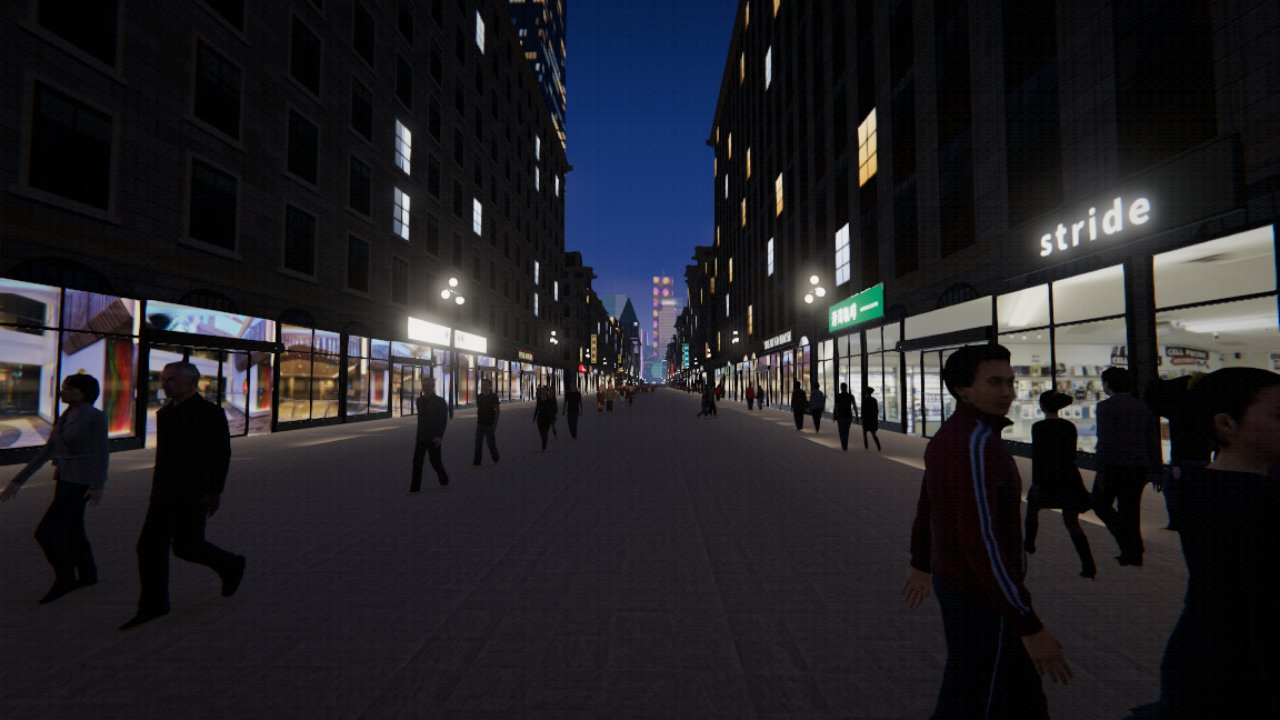
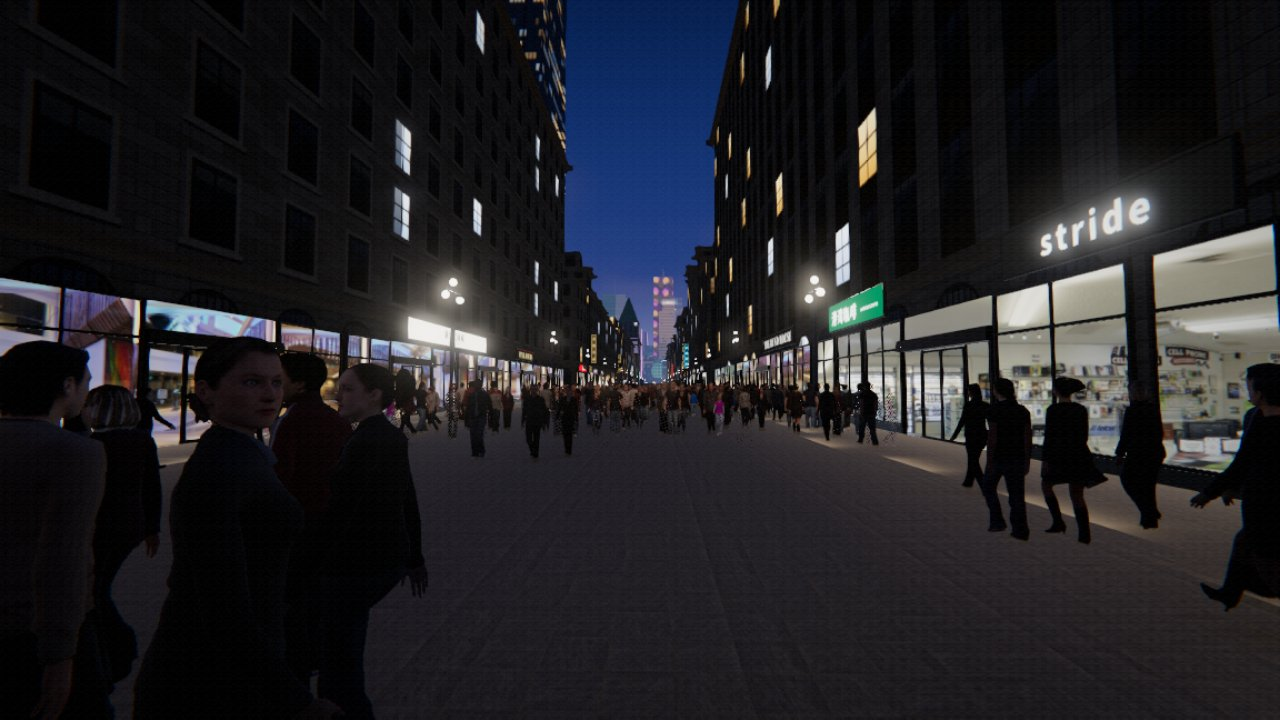
Nanjing Road's throng: thousands more people on the pedestrian street, one draw call
The simulated crowd gave Nanjing Road a couple of hundred people in view at six in the evening. A
throng of impostor cards now fills the street beyond about 15 m of the camera (engine/throng.js,
world/throngView.js), moved entirely in the vertex shader: one draw call, no per-frame CPU.

- Straight tracks east and west at a strolling pace with a weave; couples and threes; window-shoppers
  and photographers. Two stretches cut at Henan Road; out of the trams' lanes, the metro wells and the
  buildings; fade at the ends of a stretch, near the camera (the simulated crowd there) and far off.
- Count by preset (engine/gfx.js throng: 4,000 / 12,000 / 15,000 / 20,000 at the busiest), scaled by
  the evening's share like the simulated crowd, halved in rain; ?throng=<n> / ?throng=0.
- Counted in the liveliness numbers. Hero view at 18:00: 1,857 people (was 206).
- tests/throng.test.mjs; docs/living-city.md.

Claude-Session: https://claude.ai/code/session_018TEJd55UN3ZjrcLPdv4VPK

Changed region(s): [[0.0, 0.4583, 1.0, 1.0]]

diff --git a/src/engine/throng.js b/src/engine/throng.js
@@ -1,0 +1,131 @@
+// Nanjing Road's throng: the thousands on the pedestrian street beyond the simulated crowd. Pure (no
+// three.js); world/throngView.js draws them as the far crowd's impostor cards, moved entirely on the GPU
+// from a few numbers each, so they cost one draw call and no per-frame work on the main thread.
+//
+// Why: the simulated crowd (engine/crowd.js) is a few thousand people for the whole map, so the 1.5 km of
+// Nanjing Road East shows a couple of hundred at six in the evening. An ordinary evening there is about
+// 0.15-0.3 people per m² (docs/living-city.md: holiday peaks near 1 per m², 32,000-65,000 on the street
+// at once), so the hero view along the street should hold well over a thousand.
+//
+// How: each person walks a straight track along the street, east or west, at their own pace and their own
+// distance from the shop fronts, with a slight weave; when they reach the end of their stretch they fade
+// out and come back in at the other end. The street is cut into stretches at Henan Road (cars cross there),
+// so nobody walks through the traffic. Some stand at the shop windows or stop to photograph the neon.
+// Couples and friends walk side by side. Within about 15 m of the camera the throng fades out: there the
+// simulated crowd, which steers, talks and goes into shops, is what you see.
+//
+// The same arithmetic runs here (for the liveliness numbers and the tests) and in the vertex shader; keep
+// them in step (world/throngView.js THRONG_GLSL).
+import { NJ, METRO } from '../world/layout.js';
+
+const Z_N = NJ.z0 + 4.6, Z_S = NJ.z1 - 1.6;   // the walking strip (north edge clear of the metro wells and lamp row)
+
+export const THRONG = {
+  near: [14, 19],          // the throng fades in between these distances from the camera (nearer, the simulated crowd's full people)
+  far: [420, 470],         // and out again here (fog has taken most of it by then)
+  endFade: 6,              // metres of fade at each end of a stretch
+  wrap: 10000,             // the clock wraps every this many seconds (float precision on the GPU)
+  stride: 1.35,            // metres per walk cycle (as engine/crowd.js)
+};
+
+// the stretches of the street people walk: [xEast, xWest] (x falls going west), and the strip across it
+// they keep to (clear of the shop steps and the metro wells by the north kerb)
+export function throngStretches() {
+  const h = NJ.henan;
+  // west of Henan Road the sightseeing trams run both ways down the street (world/tram.js TRAM_ROUTE: lanes
+  // at zc +- half, cars about 1.8 m wide): nobody walks in a tram's lane, they walk between and beside them
+  const tz = NJ.zc + 4.3, th = 2.4, clear = 1.5;
+  return [
+    { x0: -40, x1: h.x1 + 1.5, bands: [[Z_N, Z_S]] },                 // the Bund end to Henan Road
+    { x0: h.x0 - 1.5, x1: NJ.xWest + 3,                                // Henan Road to Xizang Road
+      bands: [[Z_N, tz - th - clear], [tz - th + clear, tz + th - clear], [tz + th + clear, Z_S]] },
+  ];
+}
+
+// a seeded random sequence (so the street is the same each load and in the tests)
+function rng(seed) { let s = seed >>> 0; return () => { s = (s + 0x6d2b79f5) >>> 0; let t = s; t = Math.imul(t ^ (t >>> 15), t | 1); t ^= t + Math.imul(t ^ (t >>> 7), t | 61); return ((t ^ (t >>> 14)) >>> 0) / 4294967296; }; }
+
+// count: how many people when the street is at its busiest. roles: how many avatars the atlas has.
+// Returns per person (Float32Arrays, `n` long, the layouts world/throngView.js uploads):
+//   track [xEast, xWest, z, speed]    speed in m/s, signed: < 0 walks west, > 0 east, 0 stands
+//   phase [start (m along), weave phase, stride phase, hash]   hash: when in the evening they're out (0..1)
+//   look  [role, scale, pose, heading]   pose: -1 walking, -2 walking together, 8 standing, 9 photographing
+export function buildThrong({ count = 4000, roles = 16, seed = 2026 } = {}) {
+  const rnd = rng(seed), st = throngStretches();
+  const len = st.map((s) => s.x0 - s.x1), total = len.reduce((a, b) => a + b, 0);
+  const n = Math.max(0, Math.round(count));
+  const track = new Float32Array(n * 4), phase = new Float32Array(n * 4), look = new Float32Array(n * 4);
+  const inMetro = (x) => METRO.some((m) => x > m.x0 - 1.5 && x < m.x1 + 1.5);
+  const inCross = (x) => NJ.cross.some((c) => x > c.x0 - 1.5 && x < c.x1 + 1.5) || (x > NJ.henan.x0 - 4 && x < NJ.henan.x1 + 4);
+  for (let i = 0; i < n;) {
+    // which stretch: by its length (the street is as busy all along)
+    let r = rnd() * total, k = 0; while (k < st.length - 1 && r > len[k]) { r -= len[k]; k++; }
+    const S = st[k], hash = rnd(), role = Math.floor(rnd() * roles), scale = 0.93 + rnd() * 0.12;
+    const kind = rnd();
+    if (kind < 0.07) {
+      // at a shop window, or photographing the street's neon from the edge of it
+      const x = S.x0 - 3 - rnd() * (len[k] - 6);
+      if (inMetro(x) || inCross(x)) continue;
+      const north = rnd() < 0.5, photo = rnd() < 0.3;
+      const z = photo ? (north ? Z_N : Z_S) : north ? NJ.z0 + 1.3 : NJ.z1 - 1.3;
+      const heading = photo ? (rnd() < 0.5 ? Math.PI / 2 : -Math.PI / 2) : north ? Math.PI : 0;   // facing the window (north: -z), or along the street
+      set(i, S, z, 0, x, hash, role, scale, photo ? 9 : 8, heading); i++;
+      continue;
+    }
+    // walking: west on the north half more often, east on the south (keeping right, loosely)
+    const bw = S.bands.map(([a, b]) => b - a), bt = bw.reduce((a, b) => a + b, 0);
+    let zr = rnd() * bt, bi = 0; while (bi < bw.length - 1 && zr > bw[bi]) { zr -= bw[bi]; bi++; }
+    const band = S.bands[bi], z = band[0] + zr;
+    const south = (z - Z_N) / (Z_S - Z_N);
+    const west = rnd() < 0.65 - 0.3 * south;
+    const v = (0.85 + rnd() * 0.5) * (west ? -1 : 1);
+    const at = rnd() * len[k];
+    // with a companion beside them, at their pace (a couple, two friends; now and then three)
+    const more = rnd() < 0.38 ? (rnd() < 0.2 ? 2 : 1) : 0, tag = more ? -2 : -1;
+    set(i, S, z, v, at, hash, role, scale, tag, 0); i++;
+    for (let c = 0; c < more && i < n; c++) {
+      const side = z + 0.62 < band[1] - 0.25 ? 1 : -1, zc = Math.min(band[1] - 0.25, Math.max(band[0] + 0.25, z + (c + 1) * 0.62 * side));   // (beside them, inside their band)
+      set(i, S, zc, v, at + (rnd() - 0.5) * 0.4, hash, Math.floor(rnd() * roles), 0.93 + rnd() * 0.12, tag, 0); i++;
+    }
+  }
+  function set(i, S, z, v, at, hash, role, scale, pose, heading) {
+    track.set([S.x0, S.x1, z, v], i * 4);
+    phase.set([at, rnd() * Math.PI * 2, rnd(), hash], i * 4);
+    look.set([role, scale, pose, heading], i * 4);
+  }
+  return { n, track, phase, look };
+}
+
+const smooth = (a, b, x) => { const t = Math.min(1, Math.max(0, (x - a) / (b - a))); return t * t * (3 - 2 * t); };
+
+// person i at time t (s): { x, z, heading, pose (0-9), fade (0..1, before the camera's distance), moving }
+// active: the share of the evening throng that's out (engine/timeOfDay.js crowd, as the simulated crowd)
+export function throngAt(T, i, t, active = 1) {
+  const o = i * 4, [x0, x1, z0, v] = T.track.subarray(o, o + 4), [s0, wv, sp, hash] = T.phase.subarray(o, o + 4), pose0 = T.look[o + 2];
+  const len = x0 - x1, tt = t % THRONG.wrap;
+  let out = Math.min(1, Math.max(0, (active - hash) * 25));          // (out or not by the hour, eased over a few % of the crowd)
+  if (v === 0) return { x: s0, z: z0, heading: T.look[o + 3], pose: pose0, fade: out, moving: false };
+  const s = (((s0 + Math.abs(v) * tt) % len) + len) % len;
+  const x = v < 0 ? x0 - s : x1 + s;
+  const z = z0 + 0.22 * Math.sin(0.35 * tt + wv);
+  out *= smooth(0, THRONG.endFade, s) * smooth(0, THRONG.endFade, len - s);
+  const step = Math.floor((((sp + Math.abs(v) * tt / THRONG.stride) % 1) + 1) % 1 * 8) % 8;
+  return { x, z, heading: v < 0 ? -Math.PI / 2 : Math.PI / 2, pose: step, fade: out, moving: true, together: pose0 === -2 };
+}
+
+// how much of person p the camera at (ex, ez) sees for distance alone (the near and far fades)
+export function throngDistanceFade(p, ex, ez) {
+  const d = Math.hypot(p.x - ex, p.z - ez);
+  return smooth(THRONG.near[0], THRONG.near[1], d) * (1 - smooth(THRONG.far[0], THRONG.far[1], d));
+}
+
+// everyone drawn at all from (ex, ez) at time t, for the liveliness numbers: [{ x, z, activity }]
+export function throngPeople(T, t, active, ex, ez) {
+  const out = [];
+  for (let i = 0; i < T.n; i++) {
+    const p = throngAt(T, i, t, active);
+    if (p.fade * throngDistanceFade(p, ex, ez) < 0.5) continue;
+    out.push({ x: p.x, z: p.z, activity: !p.moving ? (p.pose === 9 ? 'photographing' : 'window-shopping') : p.together ? 'walking together' : 'walking' });
+  }
+  return out;
+}

diff --git a/src/world/throngView.js b/src/world/throngView.js
@@ -1,0 +1,119 @@
+// Nanjing Road's throng, drawn (engine/throng.js decides who walks where): every person a camera-facing
+// card from the far crowd's impostor atlas (world/crowdView.js bakeImpostors), the right side of them and
+// the right step of their walk. Where they are is worked out in the vertex shader from the time and a few
+// numbers each, so the whole throng is one draw call and nothing per person on the main thread.
+// Faded in and out with a screen-door dither (no blending, no sorting): near the camera, where the
+// simulated crowd takes over, and at the ends of each stretch of street.
+import * as THREE from 'three';
+import { THRONG, buildThrong } from '../engine/throng.js';
+import { COLS, ROWS, CW, CH, FRAME_W, FRAME_H, coatOf, lightAt, crowdDaylight } from './crowdView.js';
+
+const Y = 0.15;   // the pedestrian street's paving (world/layout.js groundHeight)
+
+// keep in step with engine/throng.js throngAt and throngDistanceFade
+const VERT = /* glsl */ `
+  attribute vec4 iTrack;      // xEast, xWest, z, speed (signed; 0 stands)
+  attribute vec4 iPhase;      // start, weave phase, stride phase, hash
+  attribute vec4 iLook;       // atlas block x, block y, pose (-1/-2 walking, 8 standing, 9 photographing), heading
+  attribute vec4 iCoat;       // coat tint rgb, scale
+  uniform float uTime, uActive;
+  uniform vec3 uLight;
+  uniform vec2 atlasSize;
+  uniform vec4 uFade;         // near in, near full, far start, far gone
+  varying vec2 vUv; varying vec3 vTint; varying float vFade;
+  #include <common>
+  #include <fog_pars_vertex>
+  float sm(float a, float b, float x) { float t = clamp((x - a) / (b - a), 0.0, 1.0); return t * t * (3.0 - 2.0 * t); }
+  void main() {
+    float len = iTrack.x - iTrack.y, v = iTrack.w, fade = clamp((uActive - iPhase.w) * 25.0, 0.0, 1.0);
+    vec3 wp; float heading = iLook.w, pose = iLook.z;
+    if (v == 0.0) { wp = vec3(iPhase.x, ${Y.toFixed(2)}, iTrack.z); }
+    else {
+      float av = abs(v), s = mod(iPhase.x + av * uTime, len);
+      wp = vec3(v < 0.0 ? iTrack.x - s : iTrack.y + s, ${Y.toFixed(2)}, iTrack.z + 0.22 * sin(0.35 * uTime + iPhase.y));
+      fade *= sm(0.0, ${THRONG.endFade.toFixed(1)}, s) * sm(0.0, ${THRONG.endFade.toFixed(1)}, len - s);
+      heading = v < 0.0 ? -PI / 2.0 : PI / 2.0;
+      pose = mod(floor(fract(iPhase.z + av * uTime / ${THRONG.stride.toFixed(2)}) * 8.0), 8.0);
+    }
+    float d = distance(cameraPosition.xz, wp.xz);
+    fade *= sm(uFade.x, uFade.y, d) * (1.0 - sm(uFade.z, uFade.w, d));
+    vFade = fade;
+    if (fade < 0.01) { gl_Position = vec4(2.0, 2.0, 2.0, 1.0); return; }   // (nothing to draw: off the screen)
+    vec3 toCam = cameraPosition - wp; toCam.y = 0.0;
+    vec3 f = normalize(toCam + vec3(1e-4, 0.0, 0.0));
+    vec3 r = vec3(f.z, 0.0, -f.x);
+    float sc = iCoat.w;
+    vec3 p = wp + r * position.x * sc + vec3(0.0, position.y * sc, 0.0);
+    float rel = heading - atan(f.x, f.z);
+    float row = mod(floor(rel / (PI / 4.0) + 0.5), 8.0);
+    vec2 cell = vec2(iLook.x * ${COLS}.0 + pose, iLook.y * ${ROWS}.0 + row);
+    vUv = (cell * vec2(${CW}.0, ${CH}.0) + uv * vec2(${CW}.0, ${CH}.0)) / atlasSize;
+    vTint = uLight * iCoat.rgb;
+    vec4 mvPosition = viewMatrix * vec4(p, 1.0);
+    gl_Position = projectionMatrix * mvPosition;
+    #include <fog_vertex>
+  }`;
+const FRAG = /* glsl */ `
+  uniform sampler2D atlas; varying vec2 vUv; varying vec3 vTint; varying float vFade;
+  #include <common>
+  #include <fog_pars_fragment>
+  void main() {
+    if (vFade < 0.999) { float dz = fract(52.9829189 * fract(dot(gl_FragCoord.xy, vec2(0.06711056, 0.00583715)))); if (dz >= vFade) discard; }
+    vec4 c = texture2D(atlas, vUv);
+    if (c.a < 0.5) discard;
+    gl_FragColor = vec4(c.rgb / max(c.a, 0.001) * vTint, 1.0);
+    #include <tonemapping_fragment>
+    #include <colorspace_fragment>
+    #include <fog_fragment>
+  }`;
+
+// atlas: crowdView's (texture, cells, size); roles: the avatars to dress them as (keys of atlas.cells)
+export function createThrongView({ group, atlas, roles, count }) {
+  const T = buildThrong({ count, roles: roles.length });
+  const base = new THREE.PlaneGeometry(FRAME_W, FRAME_H); base.translate(0, FRAME_H / 2, 0);
+  const geo = new THREE.InstancedBufferGeometry();
+  geo.index = base.index; geo.attributes.position = base.attributes.position; geo.attributes.uv = base.attributes.uv;
+  const look = new Float32Array(T.n * 4), coat = new Float32Array(T.n * 4), c = new THREE.Color();
+  for (let i = 0; i < T.n; i++) {
+    const cell = atlas.cells[roles[T.look[i * 4]]] || [0, 0];
+    look.set([cell[0], cell[1], T.look[i * 4 + 2], T.look[i * 4 + 3]], i * 4);
+    coatOf(100000 + i, c); const ck = 0.45;                 // (the coat, paler, as the far crowd's cards)
+    coat.set([1 - ck + ck * c.r, 1 - ck + ck * c.g, 1 - ck + ck * c.b, T.look[i * 4 + 1]], i * 4);
+  }
+  geo.setAttribute('iTrack', new THREE.InstancedBufferAttribute(T.track, 4));
+  geo.setAttribute('iPhase', new THREE.InstancedBufferAttribute(T.phase, 4));
+  geo.setAttribute('iLook', new THREE.InstancedBufferAttribute(look, 4));
+  geo.setAttribute('iCoat', new THREE.InstancedBufferAttribute(coat, 4));
+  geo.instanceCount = T.n;
+  const mat = new THREE.ShaderMaterial({
+    fog: true,
+    uniforms: THREE.UniformsUtils.merge([THREE.UniformsLib.fog, {
+      atlas: { value: null }, atlasSize: { value: new THREE.Vector2(...atlas.size) },
+      uTime: { value: 0 }, uActive: { value: 1 }, uLight: { value: new THREE.Vector3(1, 1, 1) },
+      uFade: { value: new THREE.Vector4(THRONG.near[0], THRONG.near[1], THRONG.far[0], THRONG.far[1]) },
+    }]),
+    vertexShader: VERT, fragmentShader: FRAG,
+  });
+  mat.uniforms.atlas.value = atlas.texture;
+  const mesh = new THREE.Mesh(geo, mat);
+  mesh.frustumCulled = false; mesh.name = 'nanjing-throng';
+  group.add(mesh);
+  let time = 0, active = 1;
+  return {
+    data: T, mesh,
+    get time() { return time; }, get active() { return active; },
+    // per frame: seconds passed, the share of the evening's people out (the simulated crowd's), the rain
+    update(dt, share = 1, rain = 0) {
+      time = (time + dt) % THRONG.wrap;
+      active = Math.max(0, Math.min(1, share * (1 - 0.55 * rain)));
+      // the street's light on them; after dark a little lower than the far crowd's cards, to sit with the
+      // scene-lit people nearer (the atlas is lit evenly from the front: shirts would glow down the street)
+      const l = lightAt(-300, NJ_ZC, 0), k = 0.72 + 0.28 * crowdDaylight();
+      mat.uniforms.uTime.value = time; mat.uniforms.uActive.value = active; mat.uniforms.uLight.value.set(l[0] * k, l[1] * k, l[2] * k);
+      mesh.visible = active > 0.005 && T.n > 0;
+    },
+    setCount(n) { geo.instanceCount = Math.max(0, Math.min(T.n, Math.round(n))); },
+    dispose() { group.remove(mesh); geo.dispose(); mat.dispose(); },
+  };
+}
+const NJ_ZC = -201;

diff --git a/src/main.js b/src/main.js
@@ -139,6 +139,8 @@ import { careerEvent } from './world/career.js';   // a row outside the Peace Ho
 import { createDinner } from './world/dinner.js';
 import { createJournal } from './ui/journal.js';
 import { createCrowdView } from './world/crowdView.js';
+import { createThrongView } from './world/throngView.js';
+import { throngPeople } from './engine/throng.js';
 import { lead as carLead, contact as carContact, choosePlate, payBalance, stepPurchase } from './engine/carPurchase.js';
 import { usePhotoSurfaces } from './world/photoTextures.js';
 import { createDidi, PICKUP } from './world/didi.js';
@@ -381,6 +383,10 @@ async function boot() {
     // the preset's population at its busiest (engine/gfx.js LOD people); ?crowd=<density> (tools) as before
     world.crowd = createCrowd({ net: keepShopsWithDoors(buildNet(), nanjing.doors), density, count: params.has('crowd') || params.has('q') ? null : det.people, roles });
     world.crowdView = createCrowdView({ scene, renderer: R.renderer, people, crowd: world.crowd, roles, nearCount: params.has('q') ? 5 : det.nearPeople, midCount: params.get('t1') === '0' ? 0 : det.mid || 0, camera, lod: params.get('midlod') !== '0' });
+    // Nanjing Road's throng beyond the simulated crowd (engine/throng.js, world/throngView.js): GPU-moved
+    // cards, one draw call; ?throng=0 turns it off, ?throng=<n> sets how many at the busiest
+    const nThrong = params.has('throng') ? Number(params.get('throng')) : params.has('q') ? 0 : det.throng || 0;
+    if (nThrong > 0) world.throng = createThrongView({ group: world.crowdView.group, atlas: world.crowdView.atlas, roles, count: nThrong });
     traffic.setExtraPeople(() => world.crowd.onCarriageway());
     henan.traffic.setExtraPeople(() => world.crowd.onHenan());
     crowdBoxes = Array.from({ length: (params.has('q') ? 5 : det.nearPeople) + 2 }, () => addDynamicCollider('npc'));
@@ -1107,6 +1113,7 @@ function liveSources() {
     for (const a of world.crowd.agents) if (!a.gone && !a.out && !a.inside) people.push({ x: a.x, y: a.y, z: a.z, near: near.has(a.id), state: a.state, act: a.act, kind: a.kind, v: a.v, phone: a.phone, kid: a.kid, leader: a.leader, partner: a.partner, window: a.atRail && a.x < L.facadeX });
   }
   if (traffic) for (const p of traffic.peds) people.push({ x: p.x, y: p.y ?? L.curbH, z: p.z, near: true, activity: p.errand ? 'getting a coffee' : p.crossing ? 'crossing the road' : p.phoneWalk ? 'walking on the phone' : 'walking' });
+  if (world.throng && world.throng.mesh.visible) for (const p of throngPeople(world.throng.data, world.throng.time, world.throng.active, camera.position.x, camera.position.z)) people.push({ x: p.x, y: 0.15, z: p.z, near: false, activity: p.activity });
   for (const n of LIN_SU) people.push({ ...n, near: true, activity: 'chatting' });
   for (const o of world.dawn.others()) people.push({ x: o.x, y: L.deckY, z: o.z, near: true, activity: 'tai chi' });
   if (traffic) for (const v of traffic.vehicles) if (v.active) vehicles.push({ x: v.x, z: v.z, model: v.model });
@@ -1433,6 +1440,7 @@ function updateTraffic(dt) {
     cr.setCars(traffic.obstacles);                                                   // the Strale, parked or driven: walked round, not through
     cr.update(dt, { player: b.y > 1.5 && b.x < L.wallX ? null : (world.driving && world.driving.driving ? null : b), canSpawnAt, others, focus: eye });
     world.crowdView.update(dt, eye, { rain: weather.rain });
+    if (world.throng) world.throng.update(dt, world.crowdShare ?? 1, weather.rain);
     // the murmur of the people round you (engine/audio.js): how many, how near (twice a second)
     crowdHear -= dt;
     // (everyone counts: the crowd, the crossing's walkers, Old Lin and Ms. Su, the tai chi group... engine/soundscape.js)
@@ -1504,7 +1512,8 @@ function applyHour(dt, { force = false } = {}) {
   R.bloom.strength = s.bloom;
   if (world) {
     // the hour's share of everyone; a weekday has about three quarters of a weekend's visitors
-    if (world.crowd) world.crowd.setActive(s.crowd * (life && !isWorkday(life) ? 1 : 0.75), { dawn: s.dawn, instant: jump || force });
+    world.crowdShare = s.crowd * (life && !isWorkday(life) ? 1 : 0.75);
+    if (world.crowd) world.crowd.setActive(world.crowdShare, { dawn: s.dawn, instant: jump || force });
     traffic.setDensity(s.traffic); world.henan.traffic.setDensity(s.traffic);
     if (prev != null && !jump && passedLateNight(prev, minute)) lateNight();
     // the floods coming on (~17:10): phones go up along the promenade

diff --git a/src/engine/gfx.js b/src/engine/gfx.js
@@ -21,12 +21,13 @@ export const LOD = {
   // rooms: the size of the shop-window photographs' cube faces (world/shopfronts.js)
   // people: the crowd's population at its busiest (a weekend evening; raised when Nanjing Road ran on to
   // Xizang Road); only those within ~30 m steer
+  // throng: Nanjing Road's GPU-moved far crowd at its busiest (engine/throng.js), beyond ~15 m of the camera
   // nearPeople: full animated people (T0); mid: GPU-instanced people out to 30 m (T1, world/crowdMid.js)
   // round each other, the rest follow their lanes (engine/crowd.js), so it costs about what 380 did
-  low:    { crowd: 0.45, people: 1200, nearPeople: 6, mid: 60, ebikes: 20, traffic: 0.6, farDetail: 0.6, trees: 0, rooms: 384 },
-  medium: { crowd: 1.0, people: 3300, nearPeople: 12, mid: 150, ebikes: 60, traffic: 1.0, farDetail: 0.85, trees: 1, rooms: 512 },
-  high:   { crowd: 1.6, people: 4300, nearPeople: 16, mid: 250, ebikes: 80, traffic: 1.35, farDetail: 1.0, trees: 1, rooms: 512 },
-  ultra:  { crowd: 2.4, people: 5400, nearPeople: 24, mid: 350, ebikes: 100, traffic: 1.7, farDetail: 1.0, trees: 2, rooms: 512 },
+  low:    { crowd: 0.45, people: 1200, throng: 4000, nearPeople: 6, mid: 60, ebikes: 20, traffic: 0.6, farDetail: 0.6, trees: 0, rooms: 384 },
+  medium: { crowd: 1.0, people: 3300, throng: 12000, nearPeople: 12, mid: 150, ebikes: 60, traffic: 1.0, farDetail: 0.85, trees: 1, rooms: 512 },
+  high:   { crowd: 1.6, people: 4300, throng: 15000, nearPeople: 16, mid: 250, ebikes: 80, traffic: 1.35, farDetail: 1.0, trees: 1, rooms: 512 },
+  ultra:  { crowd: 2.4, people: 5400, throng: 20000, nearPeople: 24, mid: 350, ebikes: 100, traffic: 1.7, farDetail: 1.0, trees: 2, rooms: 512 },
 };
 export const FPS_CAPS = [30, 60, 120, 0];
 

diff --git a/src/world/crowdView.js b/src/world/crowdView.js
@@ -20,8 +20,8 @@ import { canopyGeometry } from './umbrella.js';
 // a reaction to being bumped (engine/social.js kinds, set by main.js on a crowd person) -> clip
 const GESTURE = { sorry: 'wave', fine: 'shrug', scold: 'angry', tut: 'look', look: 'look' };
 
-const COLS = 10, ROWS = 8, CW = 48, CH = 96, GRID = 4;     // per avatar: 8 walk steps + standing + phone, 8 sides
-const FRAME_W = 1.1, FRAME_H = 2.2;                        // the card in metres (people are ~1.6-1.9 m)
+export const COLS = 10, ROWS = 8, CW = 48, CH = 96, GRID = 4;     // per avatar: 8 walk steps + standing + phone, 8 sides
+export const FRAME_W = 1.1, FRAME_H = 2.2;                        // the card in metres (people are ~1.6-1.9 m)
 
 // ---- the impostor atlas: rendered once at load ----
 export function bakeImpostors(renderer, people, roles) {
@@ -142,6 +142,7 @@ const WHITE = new THREE.Color(1, 1, 1);
 
 // the hour's part in it (setCrowdLight, from engine/timeOfDay.js)
 const LT = { day: 0, floods: 1, lamps: 1, shops: 1, night: 0 };
+export const crowdDaylight = () => LT.day;
 export function setCrowdLight(s) { LT.day = s.daylight; LT.floods = s.floods; LT.lamps = s.lamps; LT.shops = s.shops; LT.night = s.night; }
 // the light a figure stands in (rgb multiplier on the neutrally lit atlas): at night the sky, the
 // floodlit façades, the lamps; by day the hazy daylight

diff --git a/docs/living-city.md b/docs/living-city.md
@@ -71,7 +71,7 @@ Rerun on master after the night-city, e-bike, crowd and lobby work, with the sam
 
 | | Nanjing Rd 18:00 | Customs House 17:45 | Hankou Rd 18:15 | Bund 08:00 |
 |---|---|---|---|---|
-| People in view (near / mid / impostor) | **206** (3 / 21 / 181) | **142** (12 / 68 / 62) | **93** (8 / 68 / 17) | **239** (12 / 25 / 202) |
+| People in view (near / mid / impostor) | **206** (3 / 21 / 181); **1,857** with the throng (below) | **142** (12 / 68 / 62) | **93** (8 / 68 / 17) | **239** (12 / 25 / 202) |
 | Vehicles in view | 0 (pedestrian street) | 18 (taxi 5, car 8, NEV 2, bus 3) | 2–4 (taxi, NEV, bus; the signal cycle) | 20 (taxi 5, car 11, NEV 2, bus 1, boat 1) |
 | Distinct activities (within 120 m) | 3–4 (walking, together, on a tour, on the phone) | 5.6 (+ waiting to cross, a tour group, standing) | 5.4 | **9** (tai chi, jogging, photographing, selfies, looking at the view, a tour...) |
 | Audible kinds | **5** (chatter, music ×2, traffic, wind, Henan Rd's vehicles) | **6** (chatter, water, wind, traffic, boat, vehicles) | 6 | 6 |
@@ -87,6 +87,17 @@ What changed since the 24th:
 - Nanjing Road still has few distinct activities in view: nearly everyone is walking. Window-shopping, shop doors and the payment speakers happen nearer than the camera's crowd.
 
 ![Before and after, 24 and 26 November](hero-before-after.jpg)
+
+## Nanjing Road's throng (26 November 2026)
+
+The simulated crowd (`engine/crowd.js`) is a few thousand people for the whole map, and Nanjing Road's 1.5 km got a couple of hundred of them: 206 in the hero view at 18:00. The street is far busier than that, so it now has a **throng** beyond the simulated crowd (`engine/throng.js`, drawn by `world/throngView.js`, tested by `tests/throng.test.mjs`):
+
+- **What they are:** impostor cards from the far crowd's atlas, walking straight tracks along the street east or west at 0.85-1.35 m/s with a slight weave. More than a third walk in twos and threes, and about 7% stand at the shop windows or photograph the street. Everything they do is worked out in the vertex shader from the time and a few numbers each, so the throng costs **one draw call and no per-frame work on the main thread**.
+- **Where:** two stretches cut at Henan Road, so nobody walks through its traffic. Nobody walks in the trams' lanes west of Henan Road, in the metro wells, or inside a building. People fade out at the end of a stretch and come back in at the other end. Within about 15 m of the camera they fade away, because that is where the simulated crowd's full people are. They also fade out past 420-470 m.
+- **How many:** at the busiest, 4,000 / 12,000 / 15,000 / 20,000 people (low / medium / high / ultra, `engine/gfx.js` `throng`), scaled by the same share of the evening as the simulated crowd. A weekday at 18:00 is about 0.69 of that, or about 0.26 people per m² on the medium preset. Rain halves it. `?throng=0` turns it off and `?throng=<n>` sets the number.
+- **Result:** the hero view at 18:00 holds **1,857 people** (it held 206). Draw calls 1,110 and triangles 3.6 M, just over the 3.5 M bound, which the throng's own cards (24 k triangles) do not explain; the rest is the full crowd varying between runs.
+
+![Nanjing Road's hero view before and after the throng](hero-nanjing.jpg)
 
 ## First baseline (24 November 2026)
 
